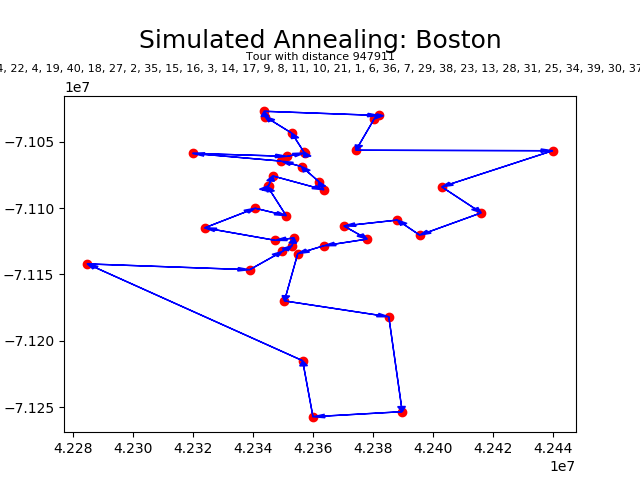
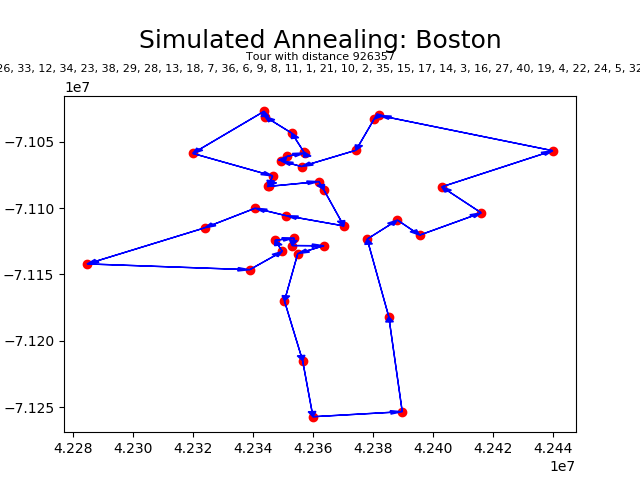
Better commenting, starting temperature, and plots

diff --git a/simulated_annealing.py b/simulated_annealing.py
@@ -5,7 +5,7 @@ import matplotlib.pyplot as plt
 
 class SimulatedAnnealing(object):
 
-    def __init__(self, name, coordinates, randomSeed = 0, temperature = 0, alpha = 0.995, max_iterations=100000, stop_temp = 1e-8):
+    def __init__(self, name, coordinates, randomSeed = 0, temperature = 1e+10, alpha = 0.995, max_iterations=100000, stop_temp = 1e-8):
         '''
         Constructor for Simulated Annealing problem.
 
@@ -34,7 +34,7 @@ class SimulatedAnnealing(object):
         self.alpha = alpha
         self.stop = max_iterations
         self.stop_temp = stop_temp
-        self.temperature = math.sqrt(self.N) if temperature == 0 else temperature
+        self.temperature = temperature
 
         # Solutions
         self.best_solution = None
@@ -81,7 +81,15 @@ class SimulatedAnnealing(object):
         return solution, fitness
 
     def simulated_annealing(self):
-        
+        '''
+        Simulate annealing process:
+        1. Generate candidate solution via 2-opt strategy
+        2. Decide to accept candidate based on either best fitness comparison or 
+           temperature-bound probability
+        3. Iterate by lowering temperature
+
+        TODO: Restarts
+        '''
         # Start with a random tour
         self.current_solution, self.current_fit = self.random_tour()
 
